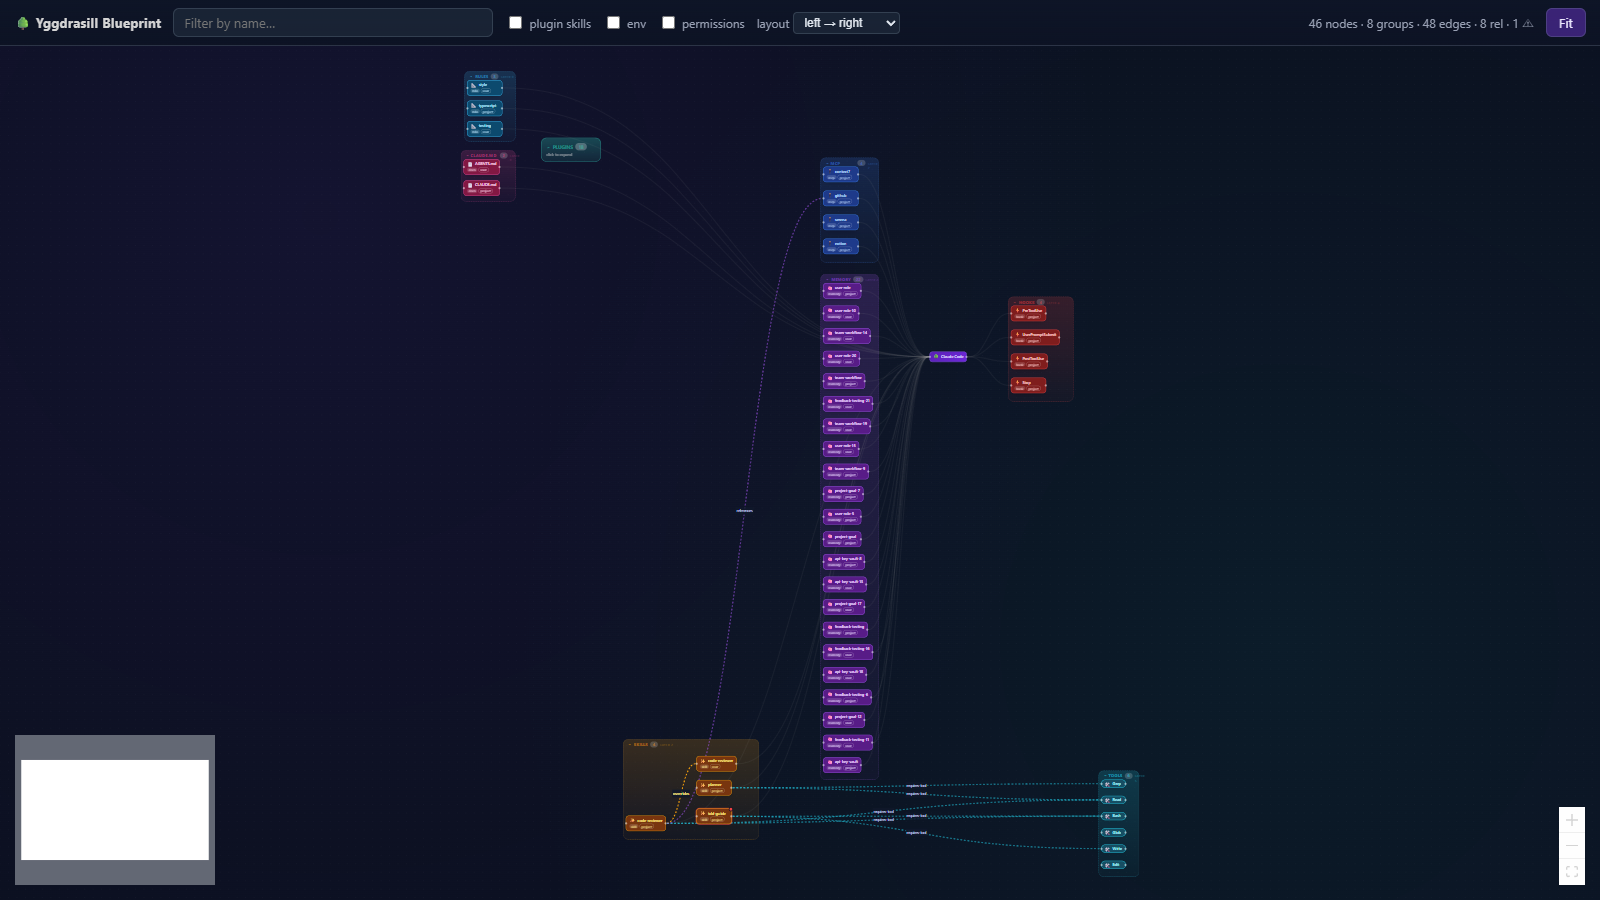
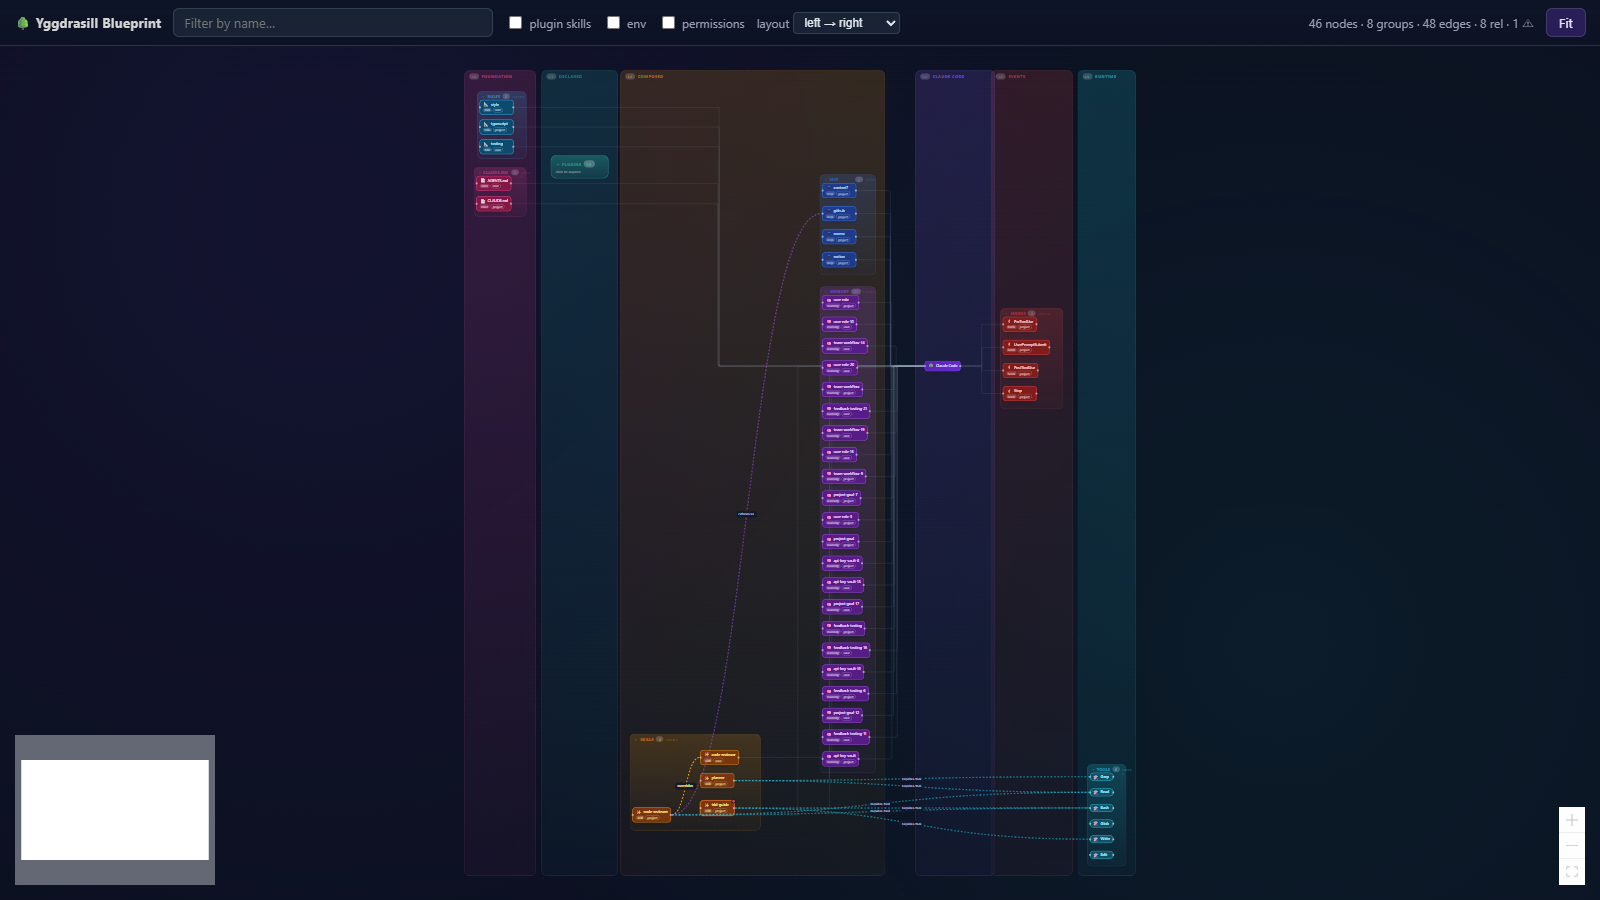
chore(release): 0.1.2 with refreshed gallery screenshots
Finishes the Marketplace polish that 0.1.1 started. Regenerates
blueprint-memory-expanded.png and blueprint-search.png from the
demo so they pick up the new layer bands + smoothstep ownership
routing + compact card sizing. The hero and the CCO comparison
already landed in 0.1.1, so the listing now has a coherent visual
set across card, gallery, and body.

Changed region(s): [[0.2812, 0.0622, 0.7188, 0.9644], [0.9688, 0.0, 1.0, 0.0622]]

diff --git a/CHANGELOG.md b/CHANGELOG.md
@@ -4,6 +4,18 @@ All notable changes to Yggdrasill will be documented in this file.
 
 The format follows [Keep a Changelog](https://keepachangelog.com/en/1.1.0/) and this project adheres to [Semantic Versioning](https://semver.org/).
 
+## [0.1.2] - 2026-04-22
+
+Finishing the Marketplace listing polish started in 0.1.1.
+
+### Changed
+- The "Why another Claude Code tool?" side-by-side image now
+  uses the real-harness blueprint capture on the right (the
+  35-node layer-band view), not the synthetic demo.
+- Gallery screenshots (`blueprint-memory-expanded.png`,
+  `blueprint-search.png`) regenerated from the demo with layer
+  bands + smoothstep routing so they match the hero visually.
+
 ## [0.1.1] - 2026-04-22
 
 Marketplace launch polish. Same feature surface as 0.1.0; this
